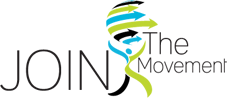
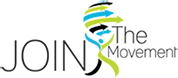
Size down elements
Resizing all elements to provide a lighter, cleaner feel for the site.

diff --git a/index.html b/index.html
@@ -12,6 +12,10 @@
     <link href="assets/css/global.css" rel="stylesheet">
     <link href='http://fonts.googleapis.com/css?family=Roboto:400,300,700|Patua+One' rel='stylesheet' type='text/css'>
 
+    <!-- Typekit Font-Serves -->
+    <script type="text/javascript" src="//use.typekit.net/xfi2asl.js"></script>
+    <script type="text/javascript">try{Typekit.load();}catch(e){}</script>
+
     <!-- HTML5 shim, for IE6-8 support of HTML5 elements -->
     <!--[if lt IE 9]>
       <script src="assets/js/html5shiv.js"></script>
@@ -32,7 +36,7 @@
     ================================================== -->
     <div class="navbar-wrapper">
       <div class="navbar">
-        <a id="saba-logo" href="http://www.sabaforlife.com" target="_blank"><img src="assets/img/saba-logo.png" alt="Saba for Life" /></a>
+        <a id="saba-logo" href="http://www.sabaforlife.com/karenstevens" target="_blank"><img src="assets/img/saba-logo.png" alt="Saba for Life" /></a>
         <img id="ks-logo" src="assets/img/ks-logo.png" alt="Karen Stevens" />
       </div><!-- /.navbar -->
     </div><!-- /.navbar-wrapper -->
@@ -42,7 +46,7 @@
     <!-- Join the Movement
     ================================================== -->
     <div id="join">
-      <img src="assets/img/join-the-movement.png" />
+      <a href="http://www.sabaforlife.com/karenstevens" target="_blank"><img src="assets/img/join-the-movement.png" /></a>
     </div>
 
 
@@ -55,7 +59,7 @@
 
       <!-- Three columns of text below the carousel -->
       <div class="row">
-        <div class="col-md-8">
+        <div class="col-md-7">
           <div id="slider" class="carousel slide" data-ride="carousel">
             <div class="carousel-inner">
               <div class="item active">
@@ -70,12 +74,14 @@
             </div>
             <a class="left carousel-control" href="#slider" data-slide="prev"></a>
             <a class="right carousel-control" href="#slider" data-slide="next"></a>
-          </div><!-- /.carousel -->
+          </div><!-- /#slider -->
           <div id="social-buttons">
             <a href="http://www.twitter.com/" target="_blank"><img src="assets/img/twitter.png" alt="Karen Stevens on Twitter"></a>
             <a href="http://www.facebook.com/" target="_blank"><img src="assets/img/facebook.png" alt="Karen Stevens on Facebook"></a>
-          </div>
-        </div><!-- /.span8 -->
+          </div><!-- /#social-buttons -->
+        </div><!-- /.col-md-7 -->
+        <div class="col-md-5">
+        </div><!-- /.col-md-5 -->
       </div><!-- /.row -->
     </div><!-- /.container.mainBody -->
 
@@ -182,7 +188,7 @@
 
       <!-- /END TERMS & CONDITIONS -->
 
-      <p class="pull-left"><small>&copy;2014 Karen Stevens</small></p>
+      <p class="pull-left"><small>&copy;2014 Karen Stevens. All Rights Reserved.</small></p>
       <p class="pull-right"><button class="btn btn-small" data-toggle="modal" data-target="#privacy">Privacy</button> &middot; <button class="btn btn-small" data-toggle="modal" data-target="#terms">Terms</button></p>
     </footer>
 

diff --git a/assets/css/global.css b/assets/css/global.css
@@ -8,8 +8,12 @@
 
 /* GENERAL RESETS */
 body {
-	background: url('../img/ks_bg.jpg') no-repeat top right;
+	background: #2f2f2f url('../img/ks_bg.jpg') no-repeat top right;
 	background-size: cover;
+	border-top: solid 10px #2f2f2f;
+	border-bottom: solid 10px #2f2f2f;
+	border-top: solid 10px rgba(47,47,47,.85);
+	border-bottom: solid 10px rgba(47,47,47,.85);
 }
 p small {
 	color: #ccc;
@@ -21,7 +25,7 @@ p small {
 }
 .mainBody {
 	clear: both;
-	margin: 300px auto 150px auto;
+	margin: 320px auto 150px auto;
 }
 #join {
 	float: right;
@@ -31,7 +35,7 @@ p small {
 /* NAV AREA */
 .navbar {
 	margin-top: 15px;
-	background: url('../img/nav-bg_1x91.png') repeat-x;
+	background: url('../img/nav-bg_1x90.png') repeat-x;
 	height: 91px;
 }
 #saba-logo {
@@ -89,6 +93,9 @@ p small {
 }
 #social-buttons a:hover {
 	opacity: 1;
+}
+#social-buttons a img {
+	max-width: 100%;
 }
 
 @media all and (max-width: 960px) {
